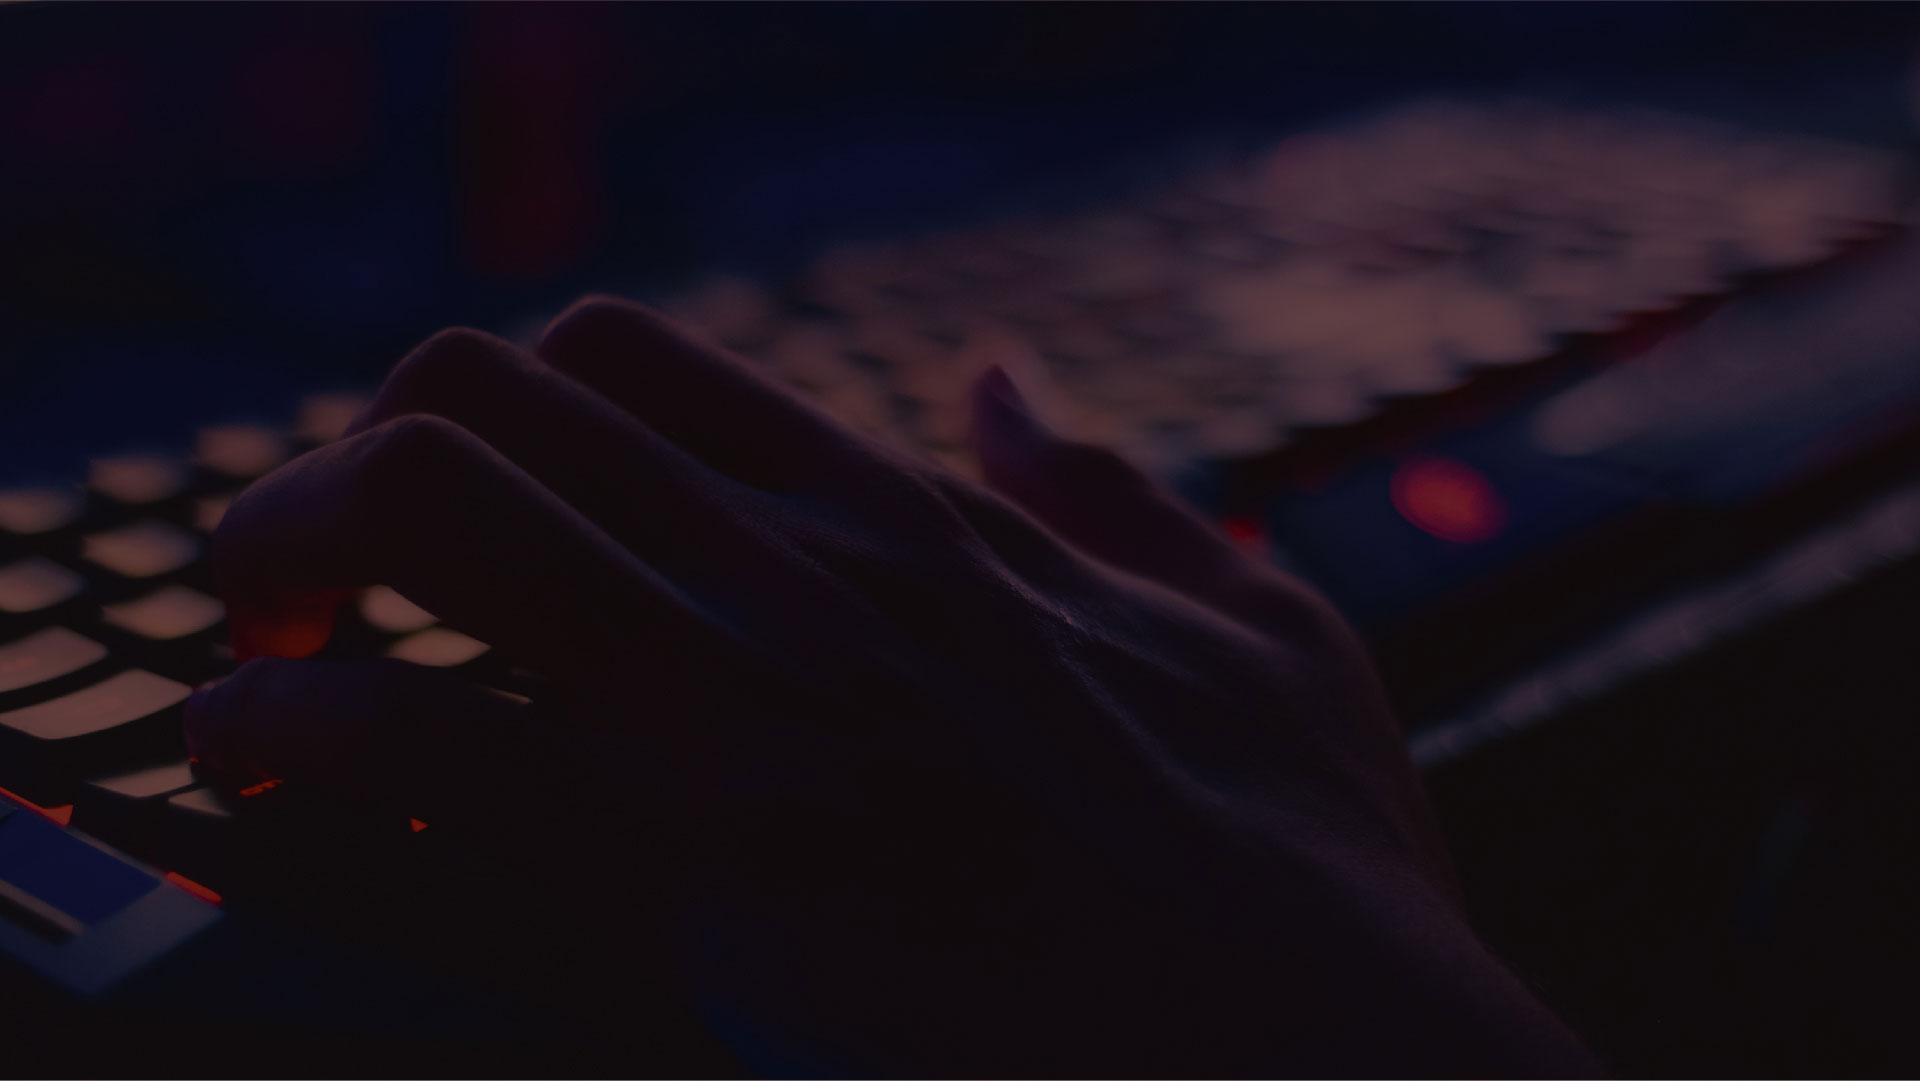
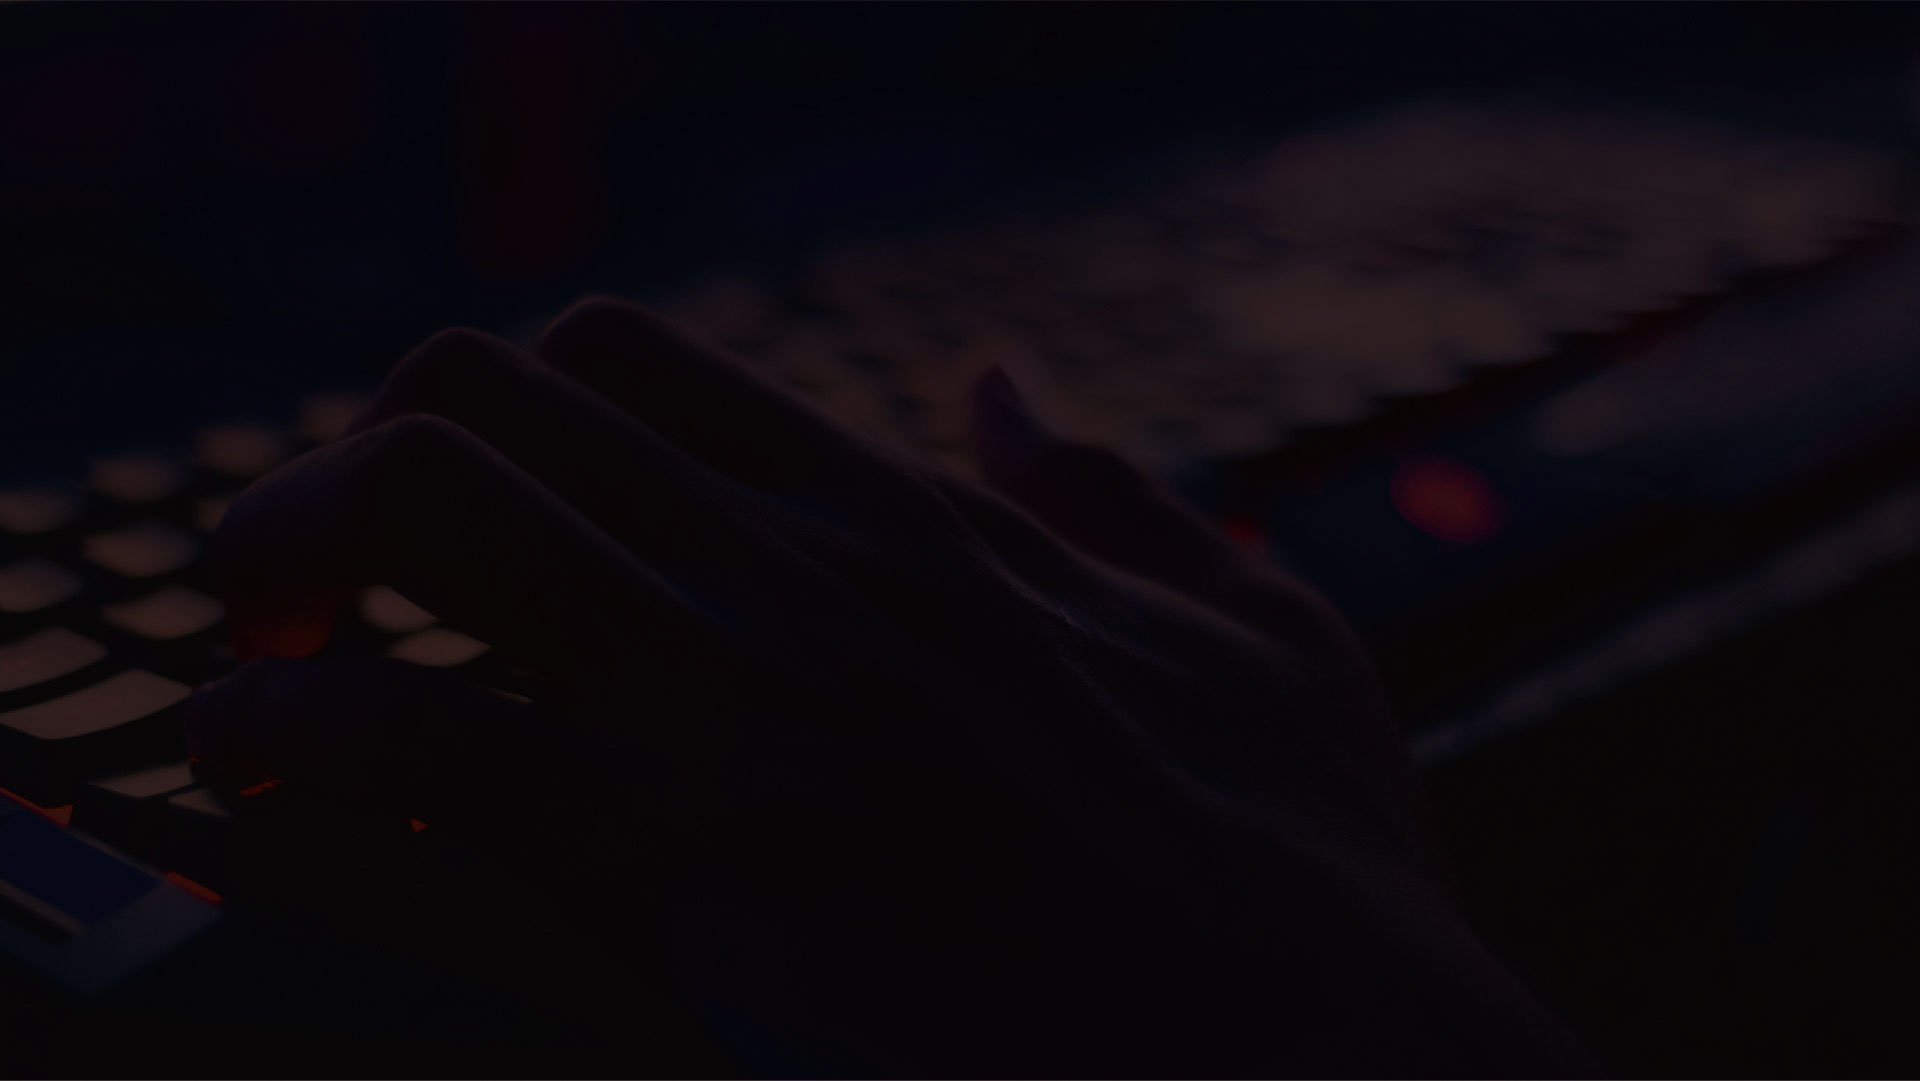
a

diff --git a/scss/componentes/_quienessomos.scss b/scss/componentes/_quienessomos.scss
@@ -7,7 +7,7 @@
 
 .quienes-index {
     /*imagen de fondo*/
-    background-image: url(../MULTIMEDIA/nosotros-fondosnuevos_1.jpg);
+    background-image: url(../MULTIMEDIA/nosotros-fondosnuevos_4.jpg);
     background-size: cover;
     color: white;
     border-top: rgb(255, 255, 255) solid 5px;

diff --git a/css/style.css b/css/style.css
@@ -205,7 +205,7 @@ body {
 
 .quienes-index {
   /*imagen de fondo*/
-  background-image: url(../MULTIMEDIA/nosotros-fondosnuevos_1.jpg);
+  background-image: url(../MULTIMEDIA/nosotros-fondosnuevos_4.jpg);
   background-size: cover;
   color: white;
   border-top: white solid 5px;
